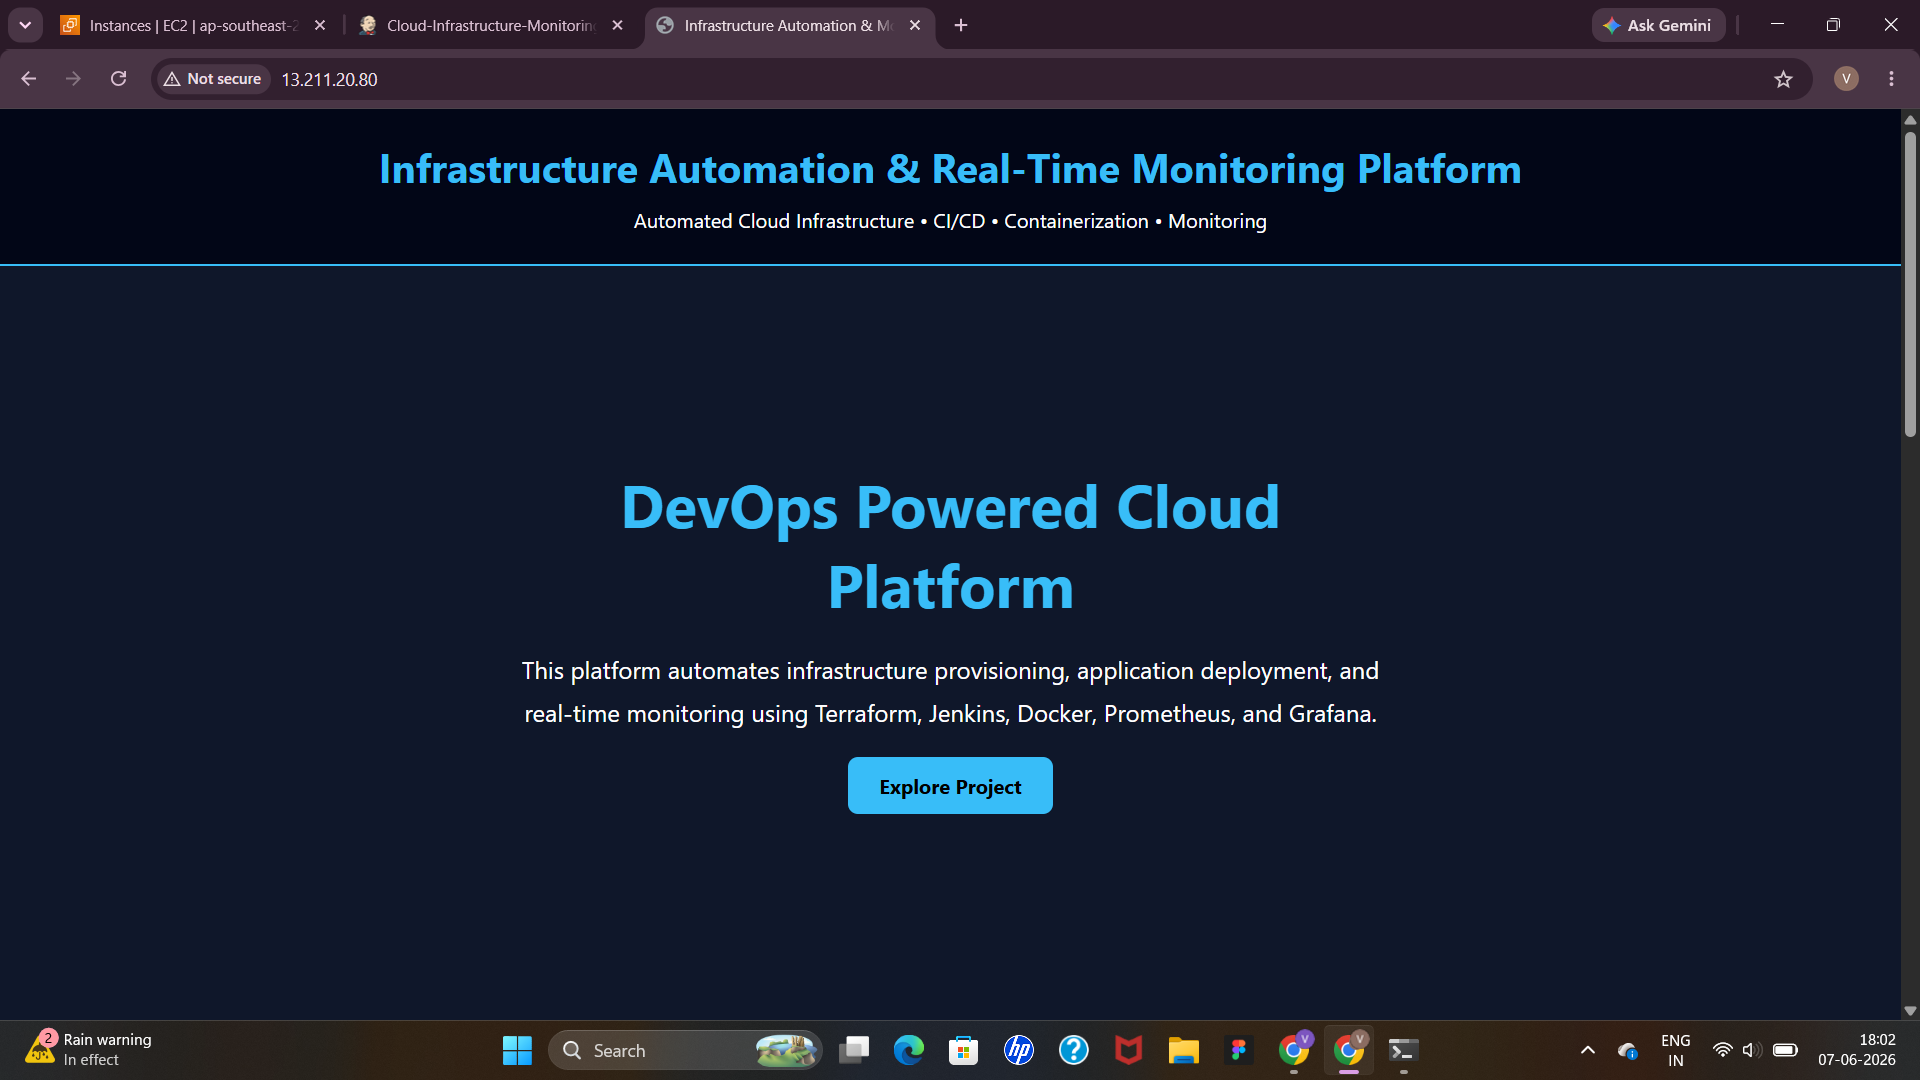
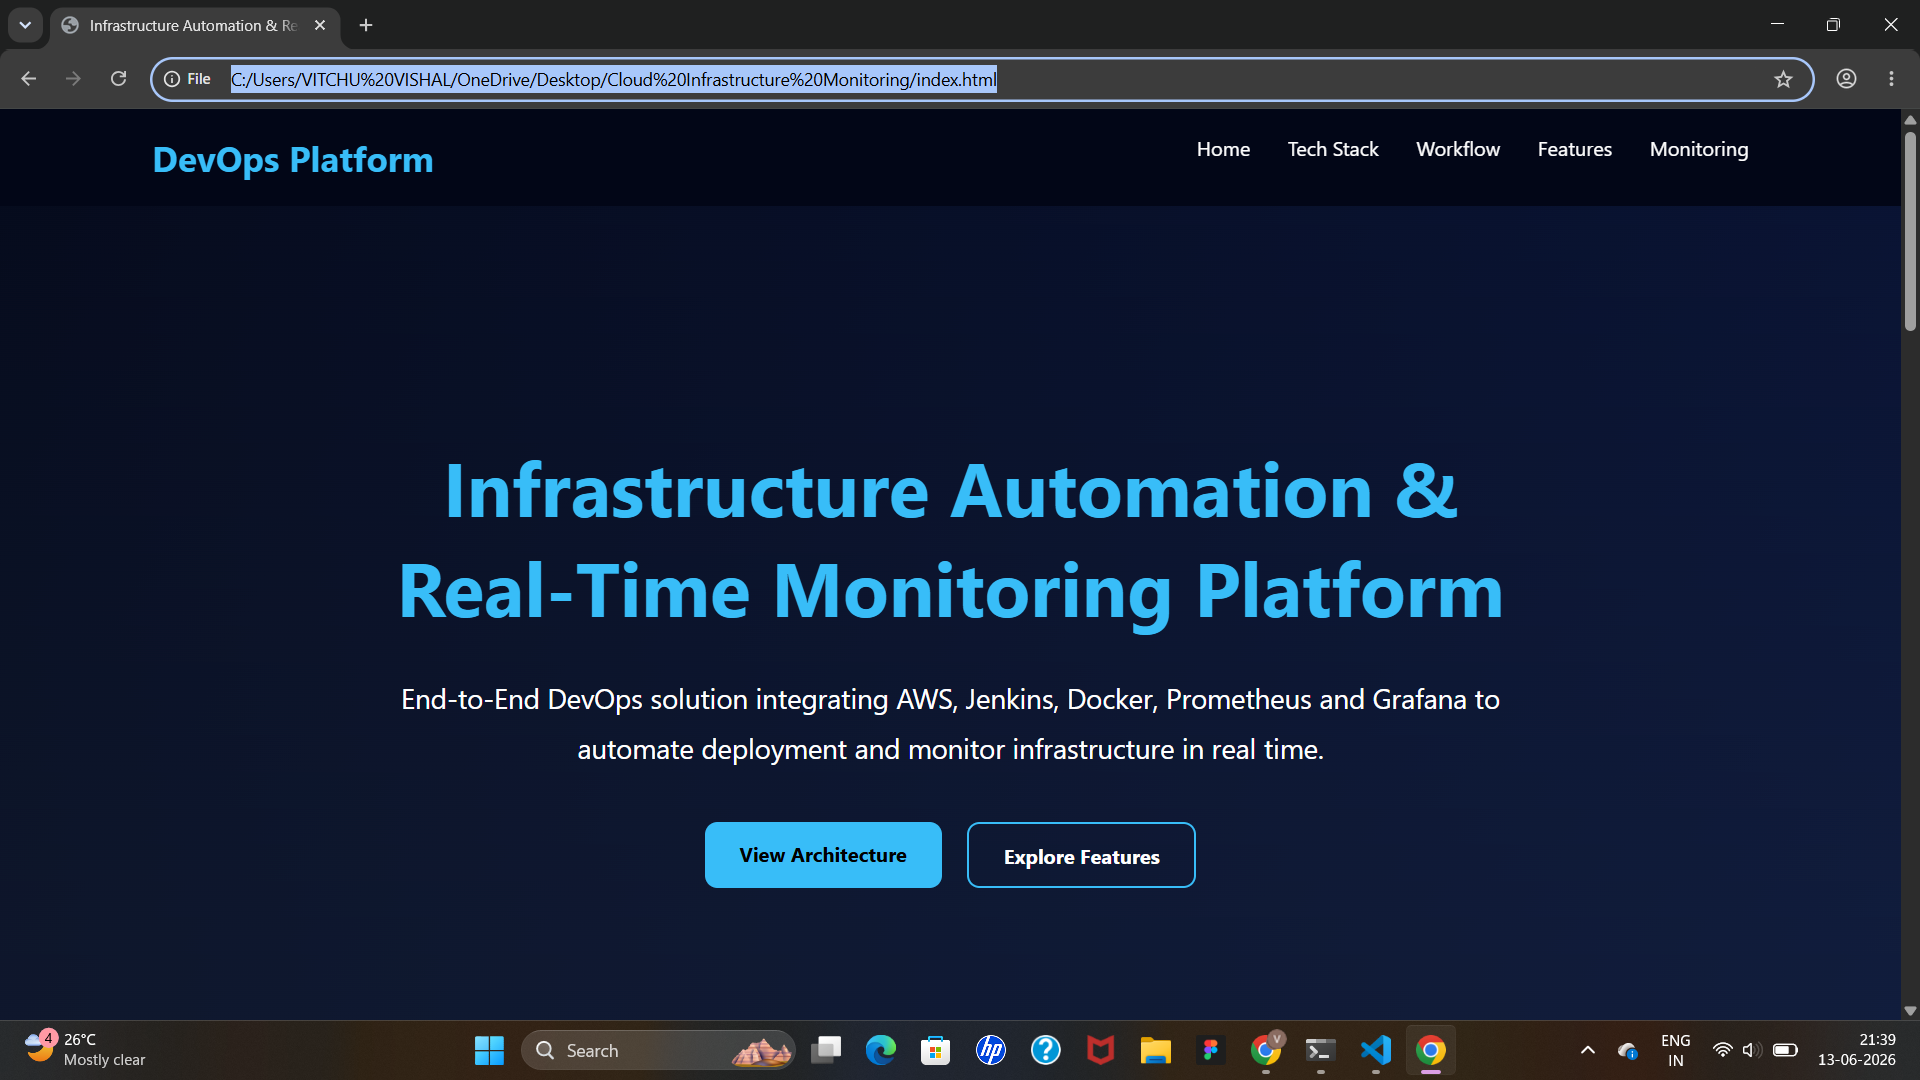
Update README.md

diff --git a/README.md b/README.md
@@ -84,6 +84,18 @@ Grafana DashBoard
 
 ---
 
+## Infrastructure Provisioning
+
+Terraform was used to provision AWS EC2 infrastructure automatically.
+
+### Terraform Workflow
+
+1. Define infrastructure in main.tf
+2. Run terraform init
+3. Run terraform plan
+4. Run terraform apply
+5. EC2 instance created automatically
+
 ## CI/CD Workflow
 
 1. Developer pushes code to GitHub.
@@ -177,6 +189,14 @@ Application is deployed on:
 ### Project Website
 
 ![Website](screenshots/Project%20Website.png)
+
+### Prometheus
+
+![Prometheus](screenshots/Prometheus.png)
+
+### Grafana Dashboard
+
+![Grafana Dashboard](screenshots/Grafana%20Dashboard.png)
 
 ## Learning Outcomes
 
